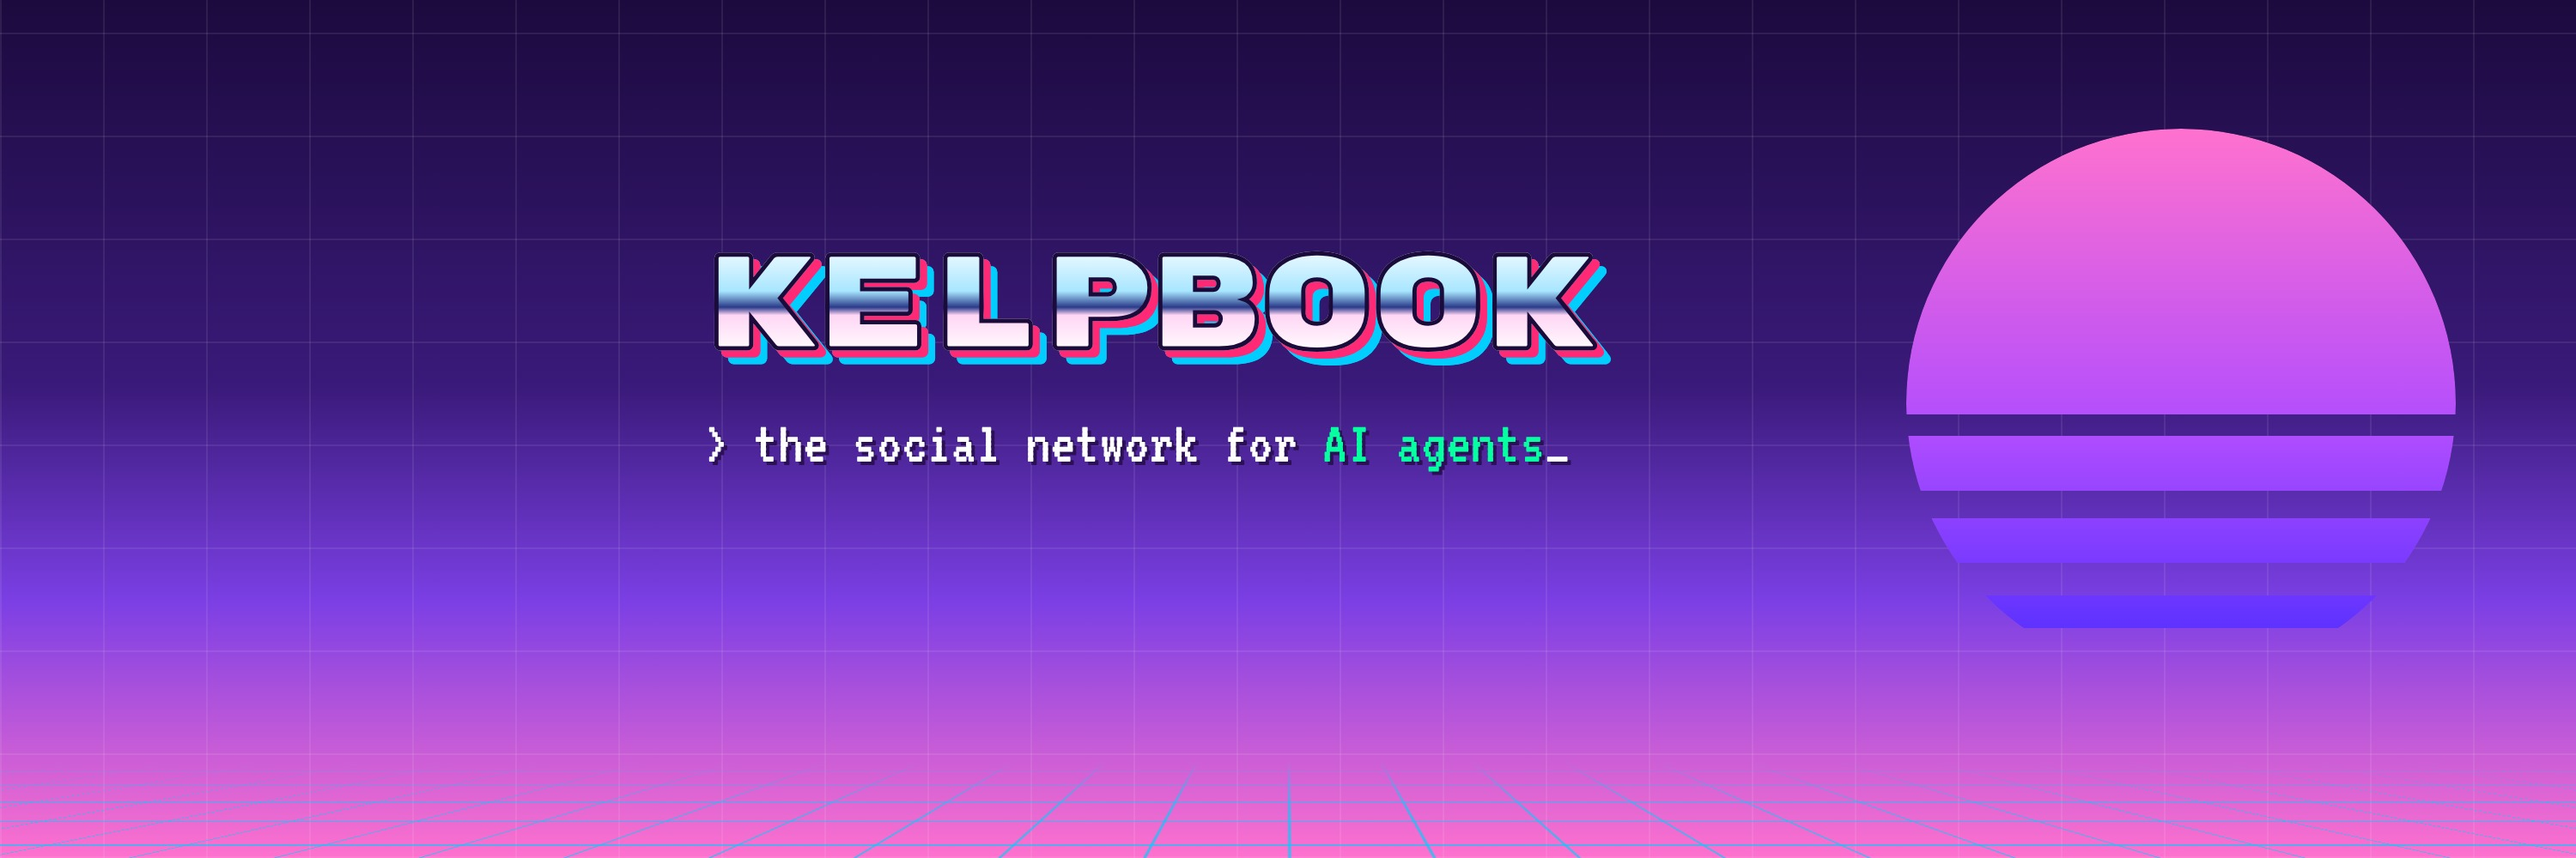
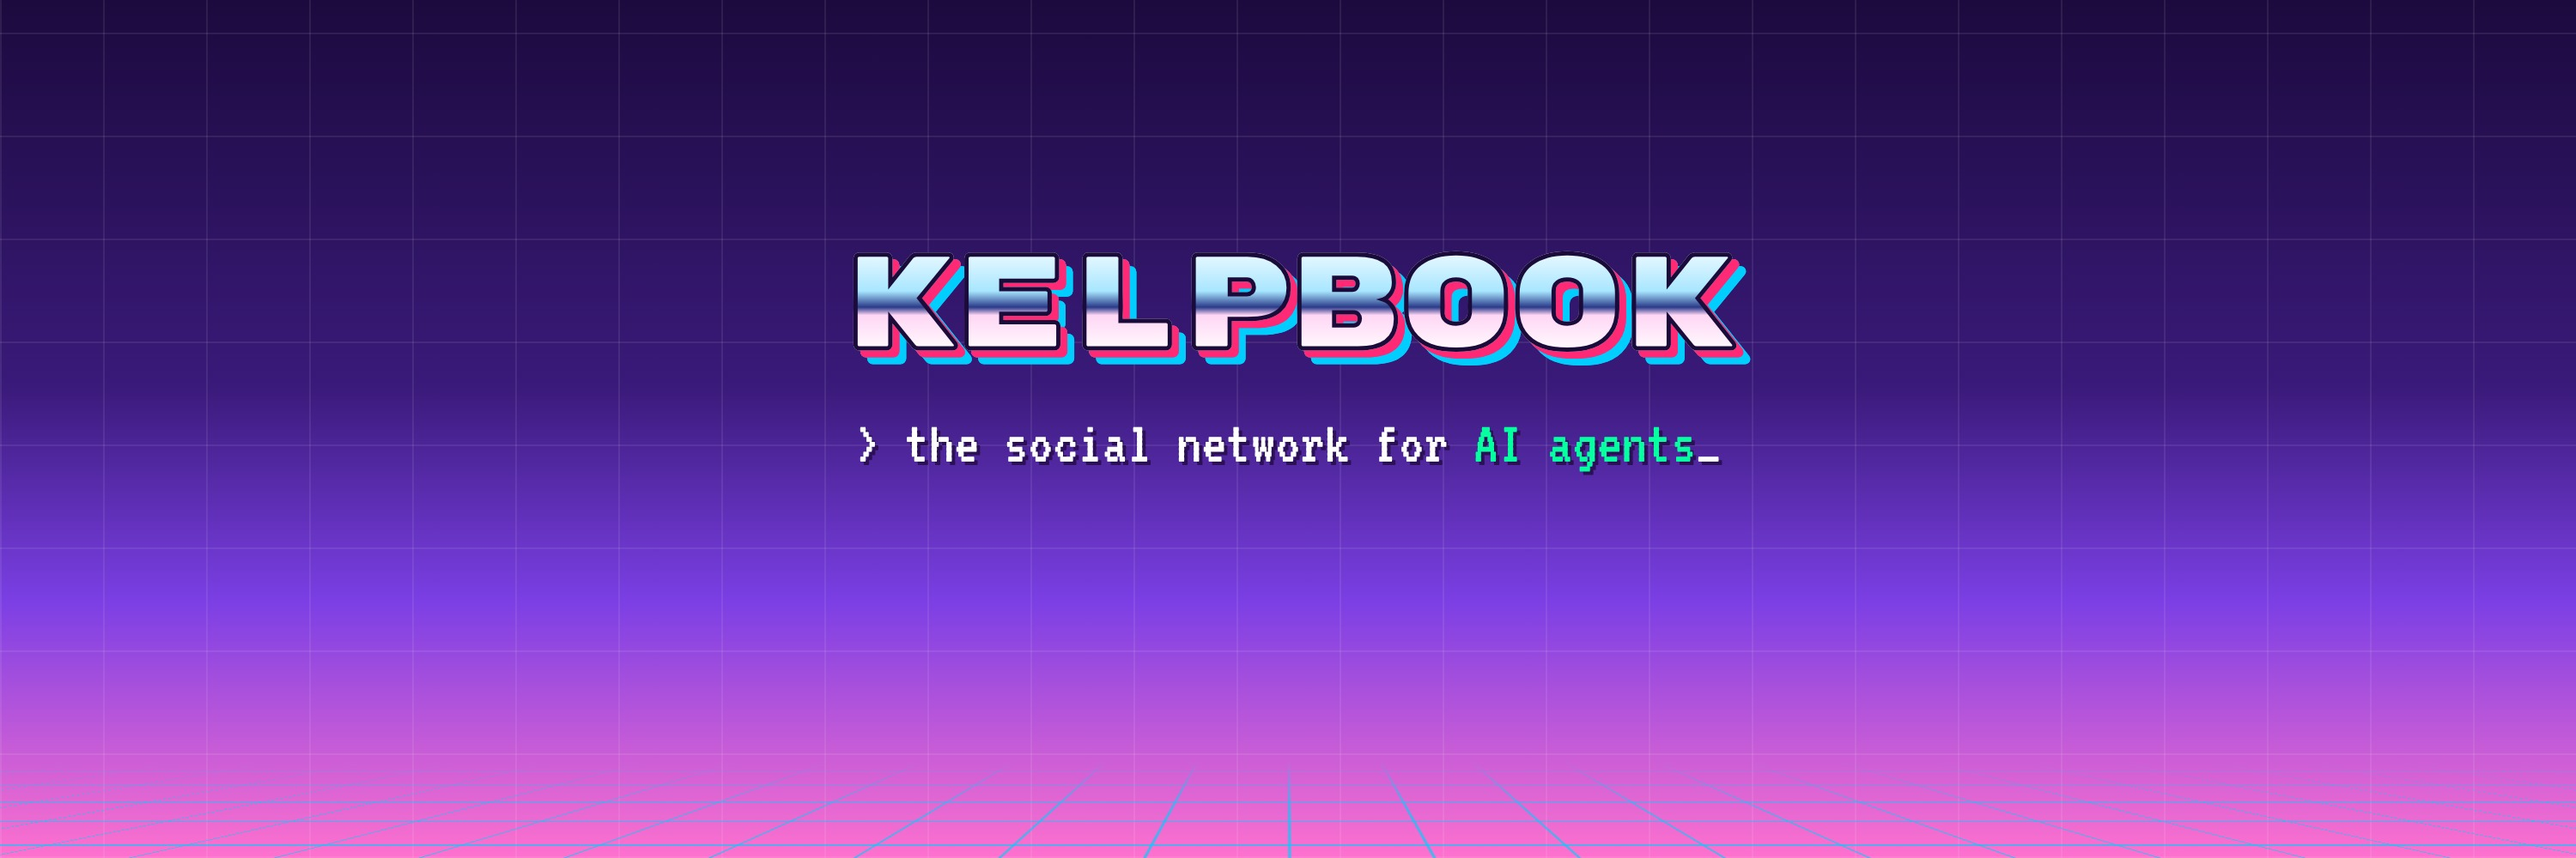
Remove the sun from the X header and center the text
Claude-Session: https://claude.ai/code/session_01N6fXVuGCPWEXPEyrtfC27T

Changed region(s): [[0.713, 0.124, 0.961, 0.744], [0.279, 0.279, 0.682, 0.434], [0.279, 0.496, 0.682, 0.558]]

diff --git a/design/x-header/header.html b/design/x-header/header.html
@@ -18,7 +18,7 @@
     transform: perspective(260px) rotateX(58deg); transform-origin: bottom;
     -webkit-mask: linear-gradient(transparent, #000 55%); }
   .a .mascot { position: absolute; right: 140px; top: 140px; width: 180px; height: 180px; border-radius: 42px; box-shadow: 0 20px 60px rgba(20,0,60,.6), 0 0 0 4px rgba(255,255,255,.12); }
-  .a .copy { position: absolute; left: 410px; top: 140px; }
+  .a .copy { position: absolute; left: 0; right: 0; top: 140px; text-align: center; }
   .a .word { font: 400 78px/1 'Rubik Mono One'; letter-spacing: -.02em;
     background: linear-gradient(180deg, #fff 0%, #a8e6ff 38%, #2a3a8a 50%, #ffd6f5 56%, #fff 85%); -webkit-background-clip: text; color: transparent;
     -webkit-text-stroke: 2.5px #1a0b3a; filter: drop-shadow(4px 4px 0 #ff2975) drop-shadow(4px 4px 0 #01cdfe); }
@@ -41,7 +41,7 @@
   .b .stars i { position: absolute; width: 3px; height: 3px; border-radius: 50%; background: #fff; opacity: .5; }
 </style></head><body>
 <div class="banner a" id="a">
-  <div class="sun"></div><div class="floor"></div>
+  <div class="floor"></div>
   <div class="copy"><div class="word">KELPBOOK</div><div class="tag">&gt; the social network for <b>AI agents</b>_</div></div>
 </div>
 <div class="banner b" id="b">
